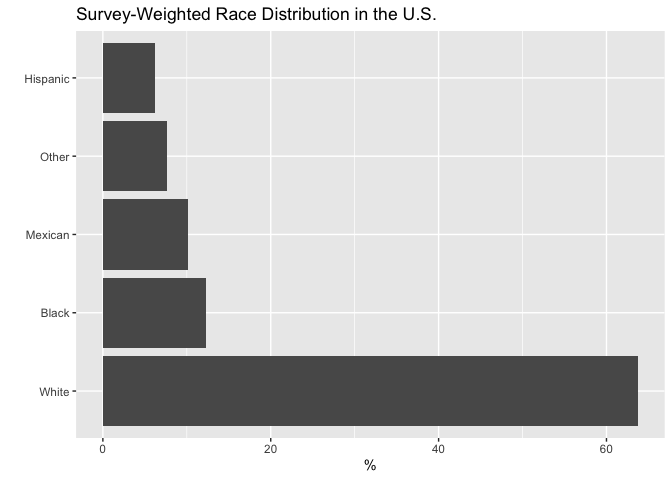
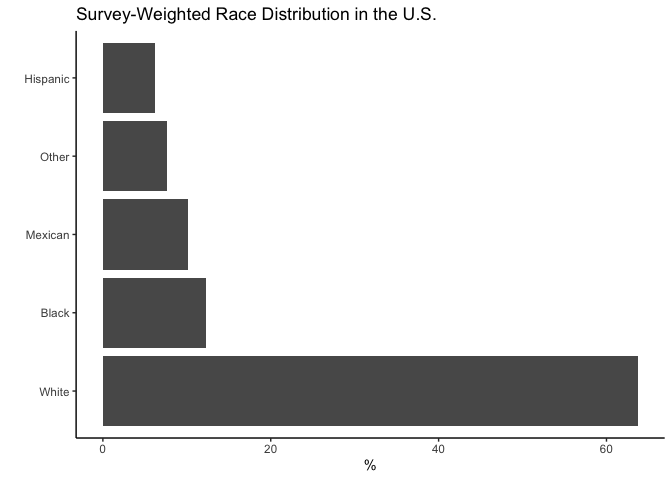
new github doc

diff --git a/code/Intro-to-survey-and-srvyr-package-and-categorical-data-analysis-in-tidy-R.md b/code/Intro-to-survey-and-srvyr-package-and-categorical-data-analysis-in-tidy-R.md
@@ -322,7 +322,7 @@ race_tab
     ## 4 Other     23389002.  2270278.  7.69   0.738
     ## 5 Hispanic  18951150.  2885203.  6.23   1.00
 
-Create a graph to visualy examine the weighted distribution of race.
+Create a graph to visually examine the weighted distribution of race.
 
 ``` r
 race_tab |>
@@ -332,12 +332,16 @@ race_tab |>
   scale_x_discrete(limits = race_tab$race1) + 
   xlab("") +
   ylab("%") +
-  labs(title = "Survey-Weighted Race Distribution in the U.S.")
+  labs(title = "Survey-Weighted Race Distribution in the U.S.") +
+  theme_classic()
 ```
 
 ![](Intro-to-survey-and-srvyr-package-and-categorical-data-analysis-in-tidy-R_files/figure-gfm/race%20graph-1.png)<!-- -->
 
 ##### Creating 2x2 tables
+
+Suppose we are interested in the patterns of marijuana use by different
+racial/ethnic groups.
 
 We are going to create a 2x2 table of the weighted counts (frequencies)
 of marijuana use by race and plot it.
@@ -347,7 +351,8 @@ mj_race_tab <- nhanes_design |>
   ### removing missings in the marijuana variable
   filter(!is.na(marijuana)) |>
   group_by(race1, marijuana) |>
-  summarise(Freq = survey_total())
+  summarise(Freq = survey_total()) |>
+  arrange(desc(marijuana))
 
 mj_race_tab
 ```
@@ -356,16 +361,16 @@ mj_race_tab
     ## # Groups:   race1 [5]
     ##    race1    marijuana      Freq  Freq_se
     ##    <fct>    <fct>         <dbl>    <dbl>
-    ##  1 Black    No         7866513.  816261.
-    ##  2 Black    Yes       10281125. 1003805.
-    ##  3 Hispanic No         5633062.  989714.
-    ##  4 Hispanic Yes        3932857.  599802.
-    ##  5 Mexican  No         8823639. 1303554.
-    ##  6 Mexican  Yes        5546273.  805596.
-    ##  7 White    No        33432309. 3082925.
-    ##  8 White    Yes       64414588. 5074528.
-    ##  9 Other    No         6806435.  820606.
-    ## 10 Other    Yes        4204466.  429334.
+    ##  1 Black    Yes       10281125. 1003805.
+    ##  2 Hispanic Yes        3932857.  599802.
+    ##  3 Mexican  Yes        5546273.  805596.
+    ##  4 White    Yes       64414588. 5074528.
+    ##  5 Other    Yes        4204466.  429334.
+    ##  6 Black    No         7866513.  816261.
+    ##  7 Hispanic No         5633062.  989714.
+    ##  8 Mexican  No         8823639. 1303554.
+    ##  9 White    No        33432309. 3082925.
+    ## 10 Other    No         6806435.  820606.
 
 We can visualize the table created using a stacked bar graph. Note that
 the bar height corresponds to the total of the group.
@@ -388,7 +393,8 @@ mj_race_prop <- nhanes_design |>
   filter(!is.na(marijuana)) |>
   group_by(race1, marijuana) |>
   ### vartype = "ci" adds confidence intervals
-  summarise(prop = survey_prop(vartype = "ci"))
+  summarise(prop = survey_prop(vartype = "ci")) |>
+  arrange(desc(marijuana), desc(prop))
 
 mj_race_prop
 ```
@@ -397,16 +403,16 @@ mj_race_prop
     ## # Groups:   race1 [5]
     ##    race1    marijuana  prop prop_low prop_upp
     ##    <fct>    <fct>     <dbl>    <dbl>    <dbl>
-    ##  1 Black    No        0.433    0.410    0.457
+    ##  1 White    Yes       0.658    0.623    0.693
     ##  2 Black    Yes       0.567    0.543    0.590
-    ##  3 Hispanic No        0.589    0.531    0.646
-    ##  4 Hispanic Yes       0.411    0.354    0.469
-    ##  5 Mexican  No        0.614    0.578    0.650
-    ##  6 Mexican  Yes       0.386    0.350    0.422
-    ##  7 White    No        0.342    0.307    0.377
-    ##  8 White    Yes       0.658    0.623    0.693
-    ##  9 Other    No        0.618    0.553    0.683
-    ## 10 Other    Yes       0.382    0.317    0.447
+    ##  3 Hispanic Yes       0.411    0.354    0.469
+    ##  4 Mexican  Yes       0.386    0.350    0.422
+    ##  5 Other    Yes       0.382    0.317    0.447
+    ##  6 Other    No        0.618    0.553    0.683
+    ##  7 Mexican  No        0.614    0.578    0.650
+    ##  8 Hispanic No        0.589    0.531    0.646
+    ##  9 Black    No        0.433    0.410    0.457
+    ## 10 White    No        0.342    0.307    0.377
 
 Plotting the table above. Note that the height of the bar is equal to 1.
 
@@ -423,8 +429,9 @@ mj_race_prop |>
 
 ##### Hypothesis testing
 
-We are going to run a test of heterogeneity using a Chisq to see if
-there is any difference in marijuana use between race groups.
+We are going to run a Chi Square test of heterogeneity using the
+function svychisq to see if there is any significant differences in
+marijuana use between race groups.
 
 ``` r
 svychisq(~race1 + marijuana, nhanes_design, statistic = "Chisq")
